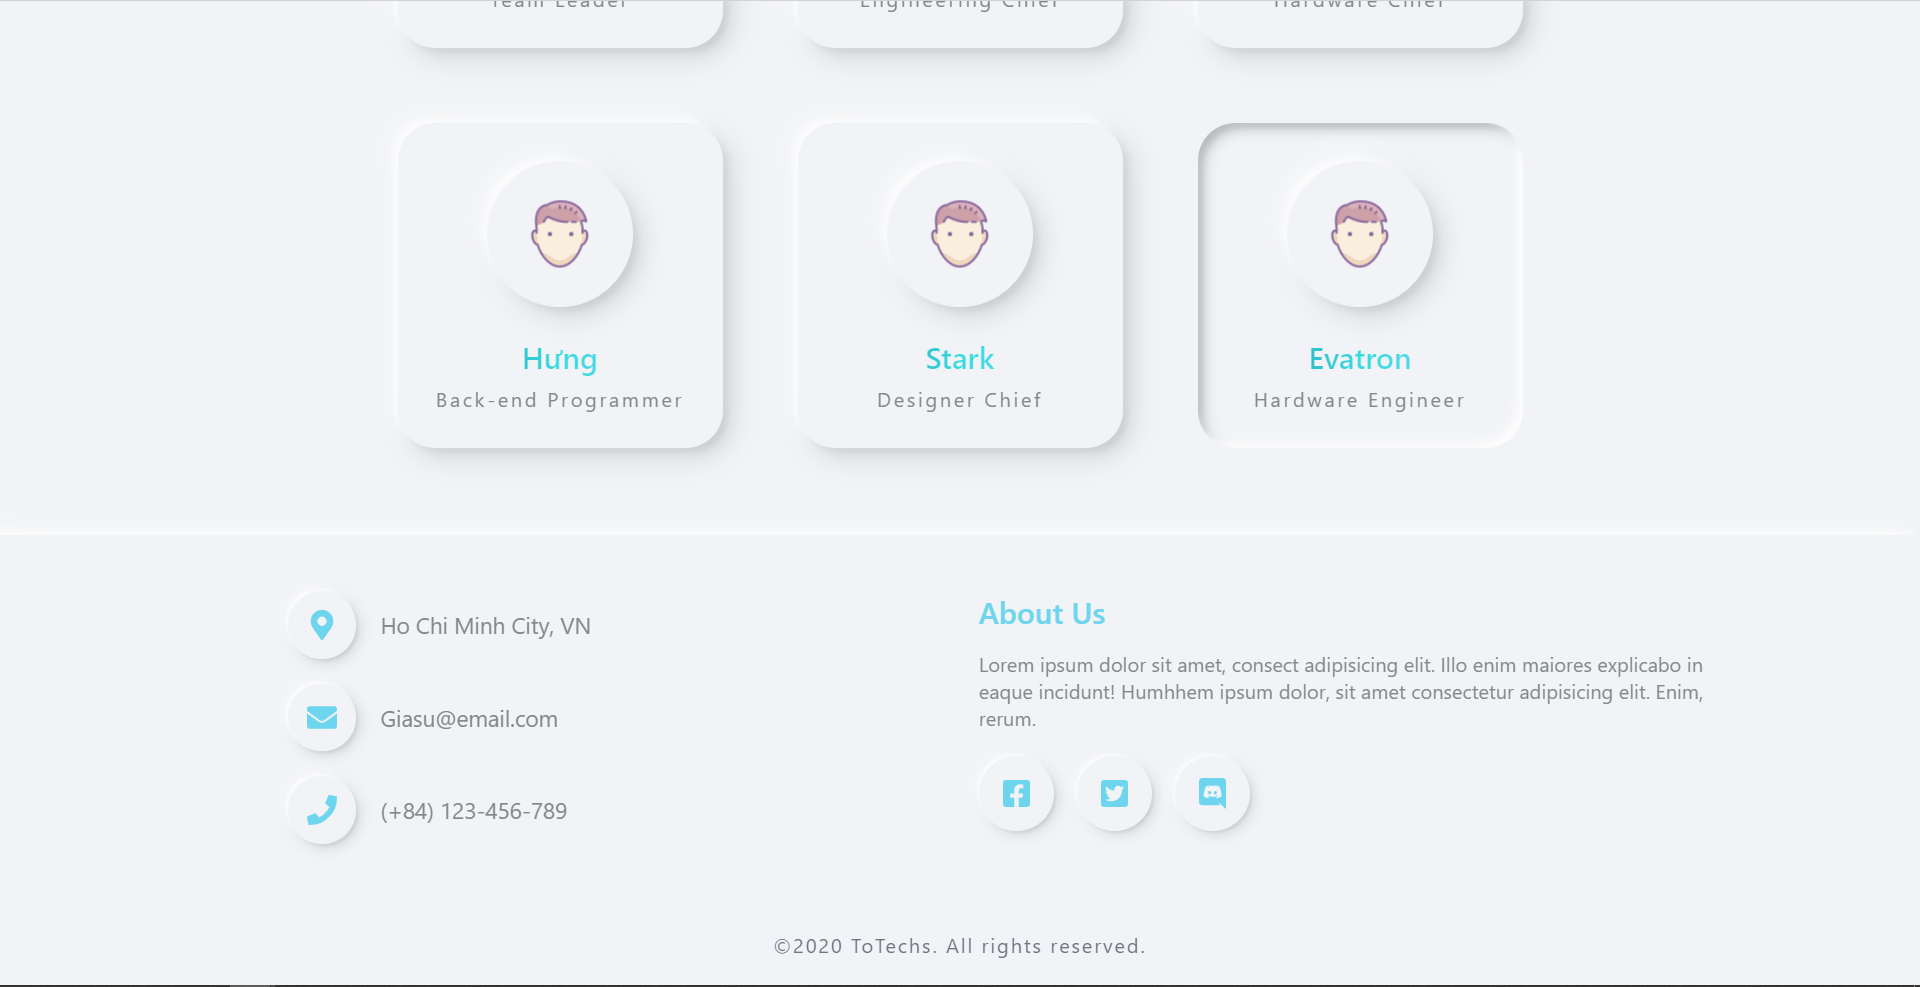
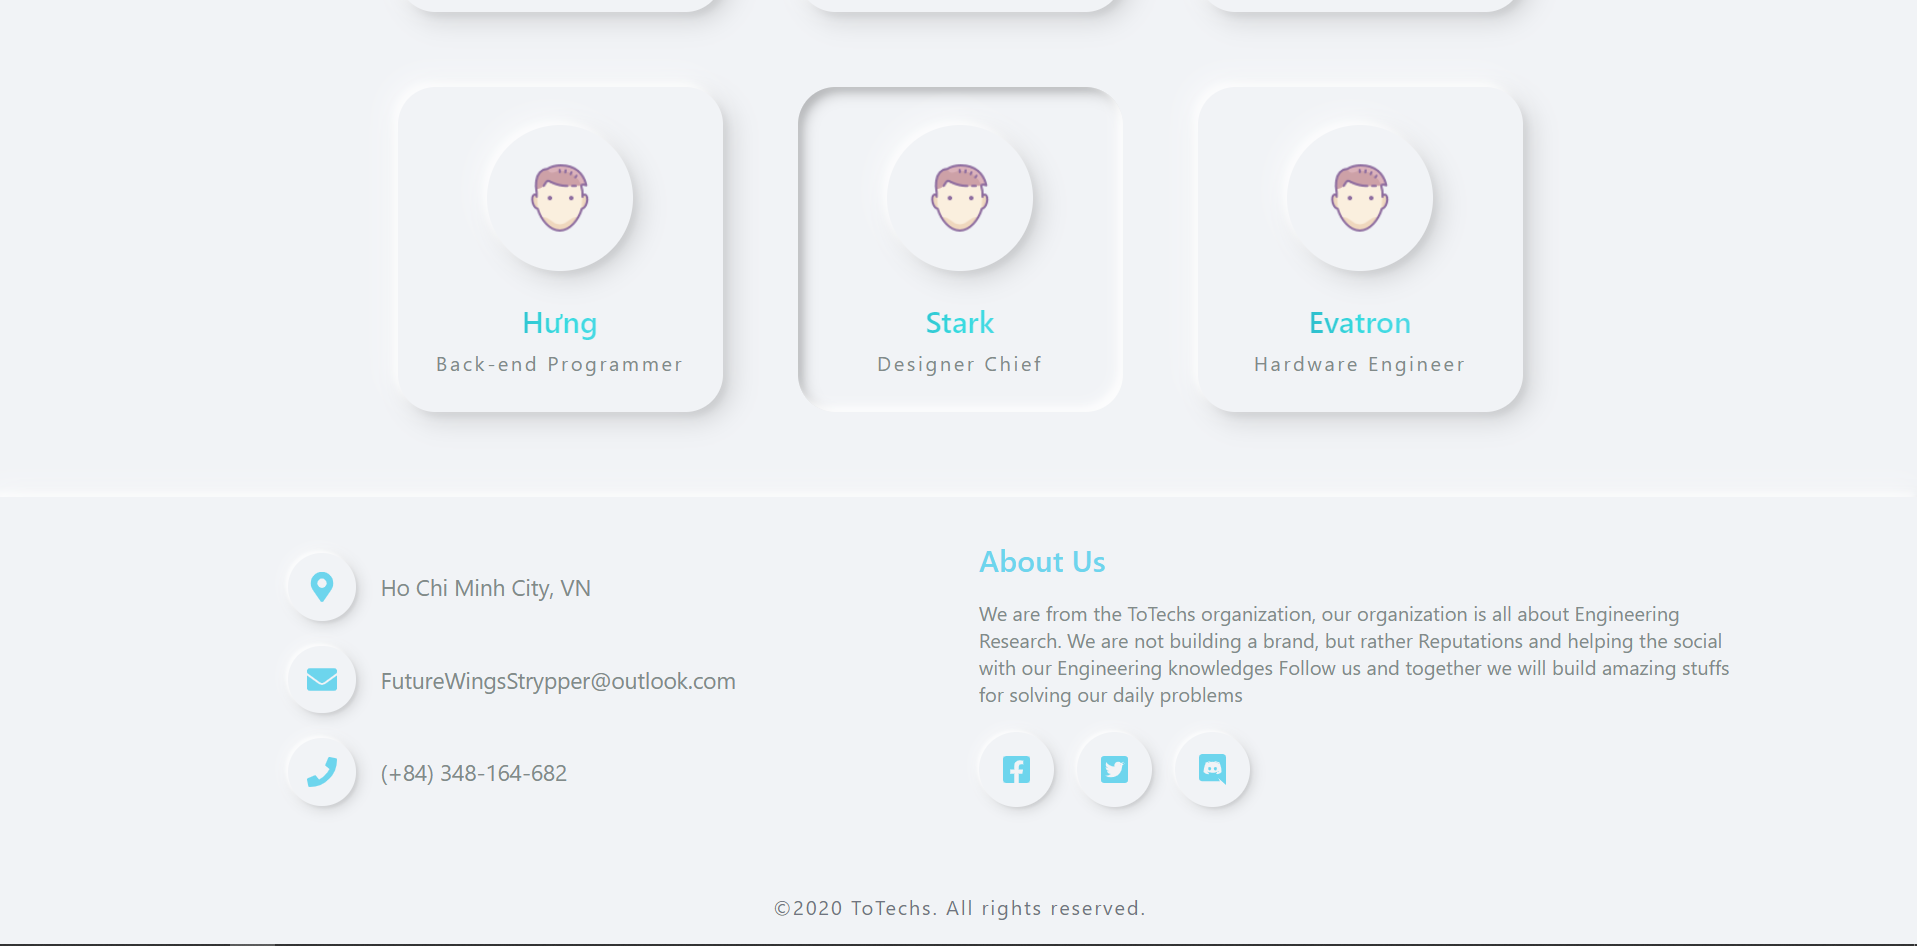
Version 1.1.2

diff --git a/src/Component/footer.jsx b/src/Component/footer.jsx
@@ -24,20 +24,22 @@ class Footer extends Component {
           </div>
           <div>
             <FontAwesomeIcon className="icon" icon={faEnvelope} />
-            <p>Giasu@email.com</p>
+            <p>FutureWingsStrypper@outlook.com</p>
           </div>
           <div>
             <FontAwesomeIcon className="icon" icon={faPhone} />
-            <p>(+84) 123-456-789</p>
+            <p>(+84) 348-164-682</p>
           </div>
         </div>
 
         <div className="footer-right">
           <div className="header">About Us</div>
           <div className="content">
-            Lorem ipsum dolor sit amet, consect adipisicing elit. Illo enim
-            maiores explicabo in eaque incidunt! Humhhem ipsum dolor, sit amet
-            consectetur adipisicing elit. Enim, rerum.
+            We are from the ToTechs organization, our organization is all about
+            Engineering Research. We are not building a brand, but rather
+            Reputations and helping the social with our Engineering knowledges
+            Follow us and together we will build amazing stuffs for solving our
+            daily problems
           </div>
           <div className="social-media">
             <a href="#">

diff --git a/README.md b/README.md
@@ -34,7 +34,7 @@ As a student, it's best for us to focus on studying and reduce heavy task works 
 
 Author: **ToTechs Team**
 
-# Jobs:
+#### Jobs:
 
 - Partime Jobs
 
@@ -42,7 +42,7 @@ Author: **ToTechs Team**
 
 - Upload Jobs Request
 
-# Tutor:
+#### Tutor:
 
 - Become A Tutor
 
@@ -50,7 +50,7 @@ Author: **ToTechs Team**
 
 - Homework Help
 
-# Market:
+#### Market:
 
 - Personal Sell
 
@@ -58,7 +58,7 @@ Author: **ToTechs Team**
 
 - Sale Events
 
-# Meeting:
+#### Meeting:
 
 - Coffee Shop
 
